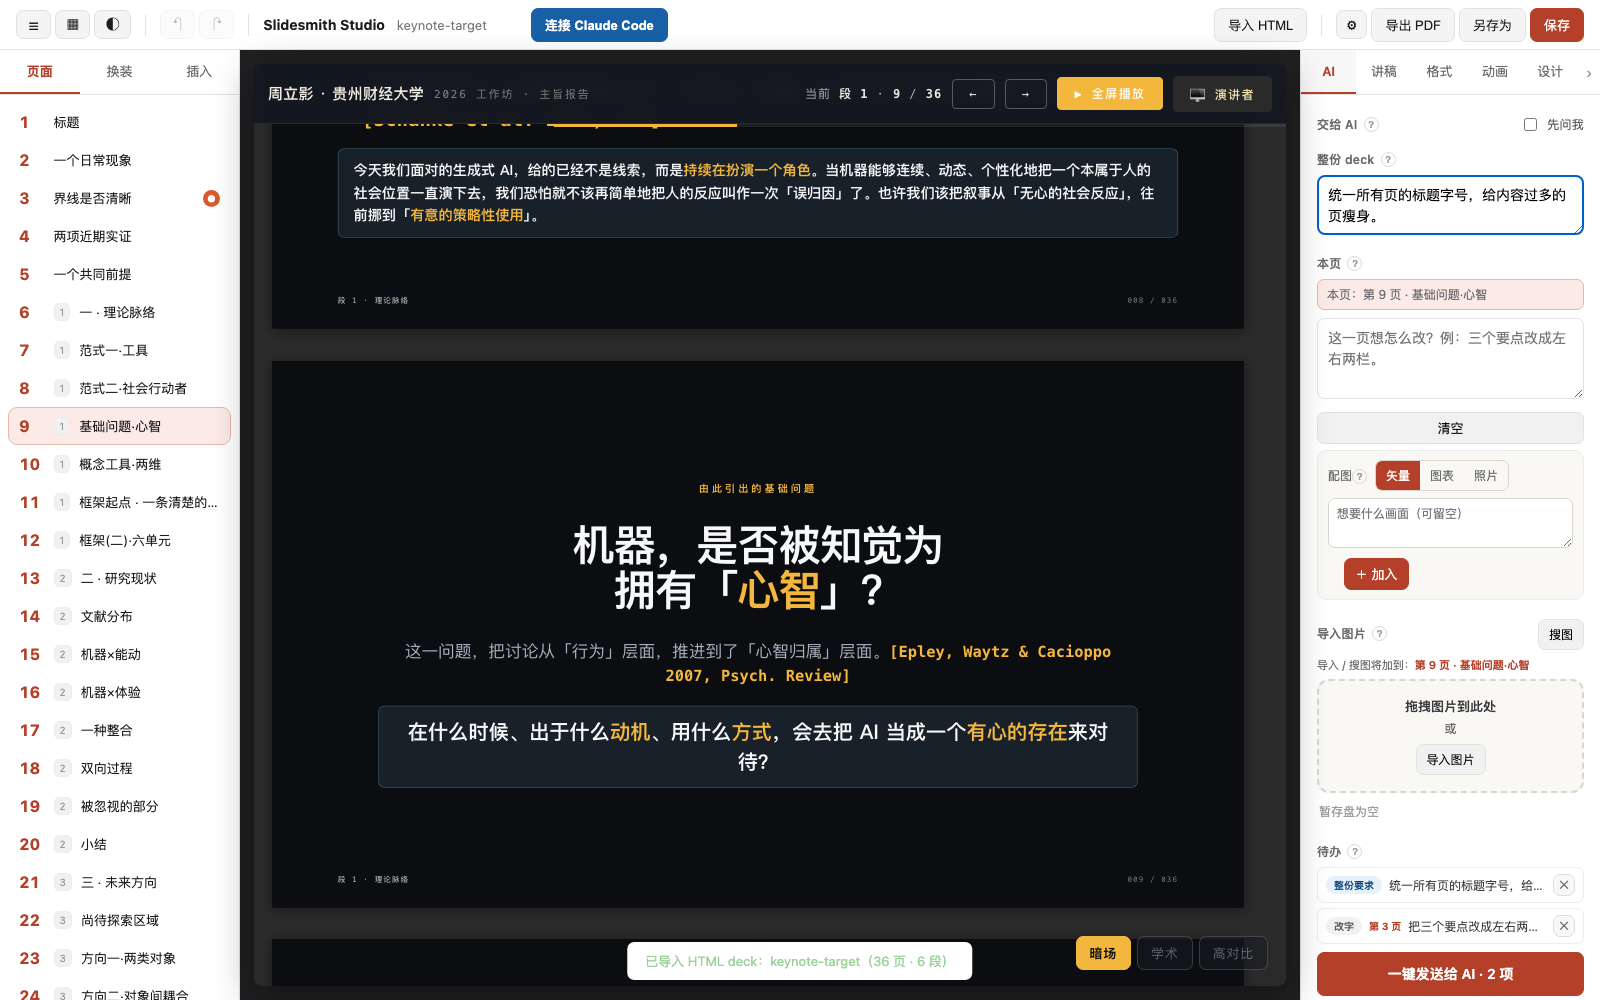
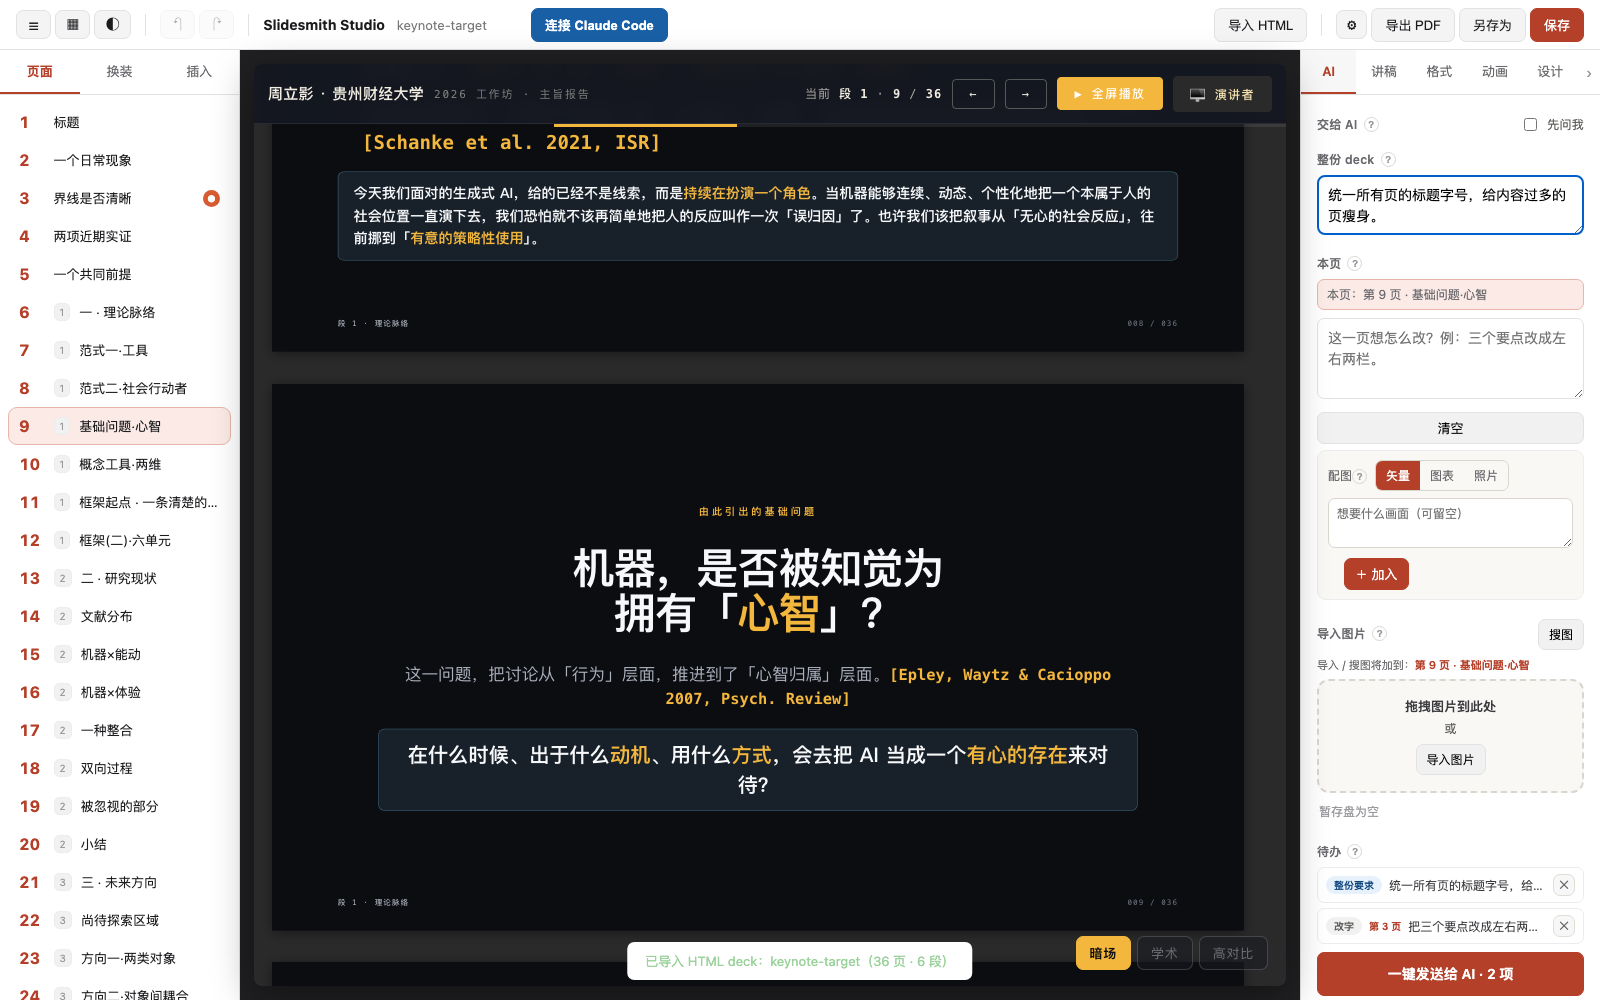
导出的 deck：放映时藏起「📱 手机遥控」按钮（配对二维码遮罩一起藏）
用户要的：Studio 勾「嵌入手机遥控」导出的 HTML，进全屏播放后那颗按钮该消失。

那颗药丸是 `position:fixed;left:14px;bottom:14px` + `z-index:2147483646`，
谁也压不住它 —— 投出去给全场看的画面上一直挂着一颗黄色按钮。

**顺带把配对弹层也归进去**：它是 `inset:0` 的全屏遮罩，忘了关就直接盖住整场幻灯片。
而且配对成功那句提示写的就是「可关闭本窗」——也就是说人确实会不关。
黑屏遮罩（black）不在此列：它就是给放映用的。

**用 CSS 不用 JS 监听**：进放映的路子有好几条（deck 的播放按钮、快捷键、系统全屏、
演讲者视图），挨个监听迟早漏一条；挂选择器一次全覆盖，退出放映也自动还原。
`:fullscreen` 单独成条 —— 浏览器不认这个伪类时会把**整条规则**丢掉，
和 `body.present` 那几个写在一起的话会被一起带走。

只改 `baked/pair-client.js` 一处：全仓库只有它会被注进 deck
（landing.html 是手机端落地页、SKILL.md 是文档，都不注入）。

**回归**：并进 `scripts/verify-present-fit.mjs`（18/18，同一份导出顺带测）。
覆盖：放映前看得见 → 放映时消失 → 退出后回来 → 弹层同样不挡画面 →
**只有 body.present、原生全屏被拒**时也照样隐藏（WKWebView 里就是这个状态，
光靠 `:fullscreen` 那条会漏）。

写测试时踩到的坑，记在脚本注释里：退出放映不能只摘 class，得**真的
`exitFullscreen()`**，否则文档还在原生全屏、`:fullscreen` 照样命中，
「按钮回不来」是测试自己造的假象。

diff --git a/studio/slidesmith-studio.html b/studio/slidesmith-studio.html
@@ -5234,6 +5234,7 @@ var qrcode = function() {
   // \u2014\u2014 \u9065\u63A7\u6309\u94AE \u2014\u2014
   var btn = document.createElement('button');
   btn.type = 'button';
+  btn.className = 'sm-pr-ui';
   btn.textContent = '\u{1F4F1} \u624B\u673A\u9065\u63A7';
   btn.style.cssText = 'position:fixed;left:14px;bottom:14px;z-index:2147483646;border:none;border-radius:999px;' +
     'padding:10px 16px;font:600 14px/1 system-ui,-apple-system,"PingFang SC",sans-serif;cursor:pointer;' +
@@ -5267,6 +5268,7 @@ var qrcode = function() {
   function onIce(c) { if (!pc || !pc.remoteDescription) { pendingIce.push(c); return; } try { pc.addIceCandidate(c); } catch (e) {} }
   function setTransport(isP2p) { var msg = card.querySelector('#__sm_pairmsg'); if (msg && msg.textContent.indexOf('\u2705') === 0) msg.textContent = '\u2705 \u624B\u673A\u5DF2\u8FDE\u63A5\uFF08' + (isP2p ? '\u5C40\u57DF\u7F51\u76F4\u8FDE' : '\u4E91\u7AEF') + '\uFF09\xB7 \u53EF\u5173\u95ED\u672C\u7A97'; }
   var overlay = document.createElement('div');
+  overlay.className = 'sm-pr-ui';
   overlay.style.cssText = 'position:fixed;inset:0;z-index:2147483647;display:none;align-items:center;justify-content:center;' +
     'background:rgba(6,6,9,.72);backdrop-filter:blur(3px);font-family:system-ui,-apple-system,"PingFang SC",sans-serif';
   var card = document.createElement('div');
@@ -5387,8 +5389,23 @@ var qrcode = function() {
     if (msg) { msg.textContent = '\u26A0\uFE0F ' + text; msg.style.color = '#c0392b'; }
   }
 
+  // \u9065\u63A7\u8FD9\u5957 UI \u53EA\u5728\u7F16\u8F91 / \u6D4F\u89C8\u65F6\u6709\u7528\u3002**\u4E00\u8FDB\u653E\u6620\u5C31\u5F97\u6D88\u5931**\uFF1A\u6295\u51FA\u53BB\u7ED9\u5168\u573A\u770B\u7684\u753B\u9762\u4E0A
+  // \u4E0D\u8BE5\u6302\u4E00\u9897\u9EC4\u8272\u836F\u4E38\uFF1B\u914D\u5BF9\u4E8C\u7EF4\u7801\u90A3\u5C42\u66F4\u8981\u547D\u2014\u2014\u5B83\u662F inset:0 \u7684\u5168\u5C4F\u906E\u7F69\uFF0C\u5FD8\u4E86\u5173\u5C31\u76F4\u63A5
+  // \u76D6\u4F4F\u6574\u573A\u5E7B\u706F\u7247\uFF08\u914D\u5BF9\u6210\u529F\u90A3\u53E5\u63D0\u793A\u5199\u7684\u662F"\u53EF\u5173\u95ED\u672C\u7A97"\uFF0C\u4E5F\u5C31\u662F\u8BF4\u4EBA\u786E\u5B9E\u4F1A\u4E0D\u5173\uFF09\u3002
+  //
+  // \u7528 CSS \u800C\u4E0D\u662F JS \u76D1\u542C\uFF1A\u8FDB\u653E\u6620\u7684\u8DEF\u5B50\u6709\u597D\u51E0\u6761\uFF08\u6309\u94AE\u3001\u5FEB\u6377\u952E\u3001\u7CFB\u7EDF\u5168\u5C4F\u3001\u6F14\u8BB2\u8005\u89C6\u56FE\uFF09\uFF0C
+  // \u6328\u4E2A\u76D1\u542C\u8FDF\u65E9\u6F0F\u4E00\u6761\uFF1B\u6302\u9009\u62E9\u5668\u5219\u4E00\u6B21\u5168\u8986\u76D6\uFF0C\u9000\u51FA\u653E\u6620\u4E5F\u81EA\u52A8\u8FD8\u539F\u3002
+  // \`:fullscreen\` \u5355\u72EC\u6210\u6761 \u2014\u2014 \u6D4F\u89C8\u5668\u4E0D\u8BA4\u8FD9\u4E2A\u4F2A\u7C7B\u65F6\u4F1A\u628A**\u6574\u6761\u89C4\u5219**\u4E22\u6389\uFF0C
+  // \u548C\u524D\u9762\u90A3\u6761\u5199\u5728\u4E00\u8D77\u7684\u8BDD\uFF0Cbody.present \u90A3\u51E0\u4E2A\u9009\u62E9\u5668\u4F1A\u88AB\u4E00\u8D77\u5E26\u8D70\u3002
+  // \u9ED1\u5C4F\u906E\u7F69\uFF08black\uFF09\u4E0D\u5728\u6B64\u5217\uFF1A\u5B83\u5C31\u662F\u7ED9\u653E\u6620\u7528\u7684\u3002
+  var prCss = document.createElement('style');
+  prCss.textContent =
+    'body.present .sm-pr-ui,body.fullscreen .sm-pr-ui,body.presenter-mode .sm-pr-ui{display:none!important}'
+    + ':fullscreen .sm-pr-ui{display:none!important}'
+    + ':-webkit-full-screen .sm-pr-ui{display:none!important}';
+
   btn.onclick = showChooser;
-  function mount() { document.body.appendChild(black); document.body.appendChild(btn); document.body.appendChild(overlay); }
+  function mount() { (document.head || document.documentElement).appendChild(prCss); document.body.appendChild(black); document.body.appendChild(btn); document.body.appendChild(overlay); }
   if (document.body) mount(); else document.addEventListener('DOMContentLoaded', mount);
 })();
 `;var Se={editorial:{css:`/* \u2550\u2550\u2550\u2550\u2550\u2550\u2550\u2550\u2550\u2550\u2550\u2550\u2550\u2550\u2550\u2550\u2550\u2550\u2550\u2550\u2550\u2550\u2550\u2550\u2550\u2550\u2550\u2550\u2550\u2550\u2550\u2550\u2550\u2550\u2550\u2550\u2550\u2550\u2550\u2550\u2550\u2550\u2550\u2550\u2550\u2550\u2550\u2550\u2550\u2550\u2550\u2550\u2550\u2550\u2550\u2550\u2550\u2550\u2550\u2550\u2550\u2550\u2550\u2550\u2550\u2550\u2550\u2550

diff --git a/plugin/slidesmith/skills/phone-remote/baked/pair-client.js b/plugin/slidesmith/skills/phone-remote/baked/pair-client.js
@@ -293,6 +293,7 @@
   // —— 遥控按钮 ——
   var btn = document.createElement('button');
   btn.type = 'button';
+  btn.className = 'sm-pr-ui';
   btn.textContent = '📱 手机遥控';
   btn.style.cssText = 'position:fixed;left:14px;bottom:14px;z-index:2147483646;border:none;border-radius:999px;' +
     'padding:10px 16px;font:600 14px/1 system-ui,-apple-system,"PingFang SC",sans-serif;cursor:pointer;' +
@@ -326,6 +327,7 @@
   function onIce(c) { if (!pc || !pc.remoteDescription) { pendingIce.push(c); return; } try { pc.addIceCandidate(c); } catch (e) {} }
   function setTransport(isP2p) { var msg = card.querySelector('#__sm_pairmsg'); if (msg && msg.textContent.indexOf('✅') === 0) msg.textContent = '✅ 手机已连接（' + (isP2p ? '局域网直连' : '云端') + '）· 可关闭本窗'; }
   var overlay = document.createElement('div');
+  overlay.className = 'sm-pr-ui';
   overlay.style.cssText = 'position:fixed;inset:0;z-index:2147483647;display:none;align-items:center;justify-content:center;' +
     'background:rgba(6,6,9,.72);backdrop-filter:blur(3px);font-family:system-ui,-apple-system,"PingFang SC",sans-serif';
   var card = document.createElement('div');
@@ -446,7 +448,22 @@
     if (msg) { msg.textContent = '⚠ ' + text; msg.style.color = '#c0392b'; }
   }
 
+  // 遥控这套 UI 只在编辑 / 浏览时有用。**一进放映就得消失**：投出去给全场看的画面上
+  // 不该挂一颗黄色药丸；配对二维码那层更要命——它是 inset:0 的全屏遮罩，忘了关就直接
+  // 盖住整场幻灯片（配对成功那句提示写的是"可关闭本窗"，也就是说人确实会不关）。
+  //
+  // 用 CSS 而不是 JS 监听：进放映的路子有好几条（按钮、快捷键、系统全屏、演讲者视图），
+  // 挨个监听迟早漏一条；挂选择器则一次全覆盖，退出放映也自动还原。
+  // `:fullscreen` 单独成条 —— 浏览器不认这个伪类时会把**整条规则**丢掉，
+  // 和前面那条写在一起的话，body.present 那几个选择器会被一起带走。
+  // 黑屏遮罩（black）不在此列：它就是给放映用的。
+  var prCss = document.createElement('style');
+  prCss.textContent =
+    'body.present .sm-pr-ui,body.fullscreen .sm-pr-ui,body.presenter-mode .sm-pr-ui{display:none!important}'
+    + ':fullscreen .sm-pr-ui{display:none!important}'
+    + ':-webkit-full-screen .sm-pr-ui{display:none!important}';
+
   btn.onclick = showChooser;
-  function mount() { document.body.appendChild(black); document.body.appendChild(btn); document.body.appendChild(overlay); }
+  function mount() { (document.head || document.documentElement).appendChild(prCss); document.body.appendChild(black); document.body.appendChild(btn); document.body.appendChild(overlay); }
   if (document.body) mount(); else document.addEventListener('DOMContentLoaded', mount);
 })();
